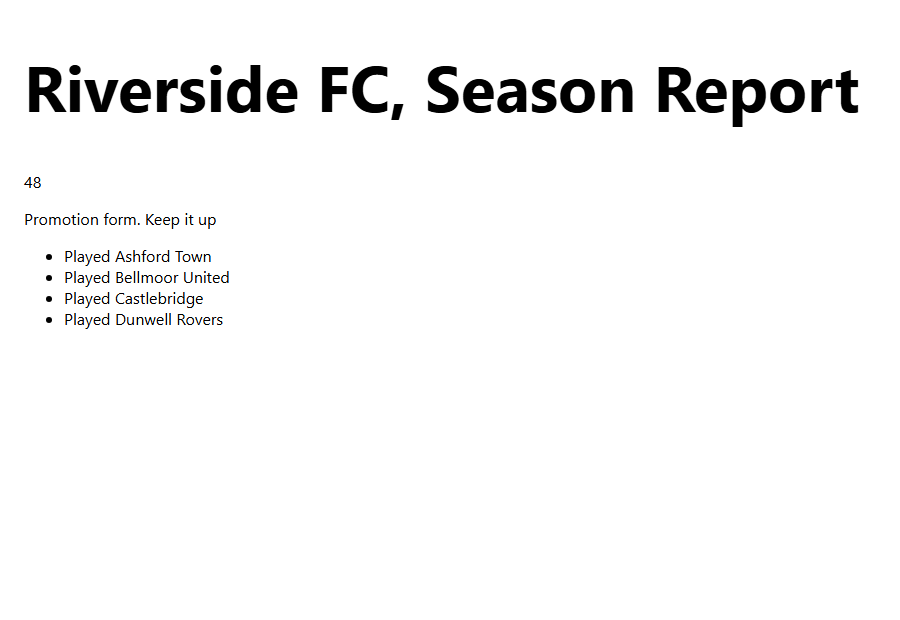
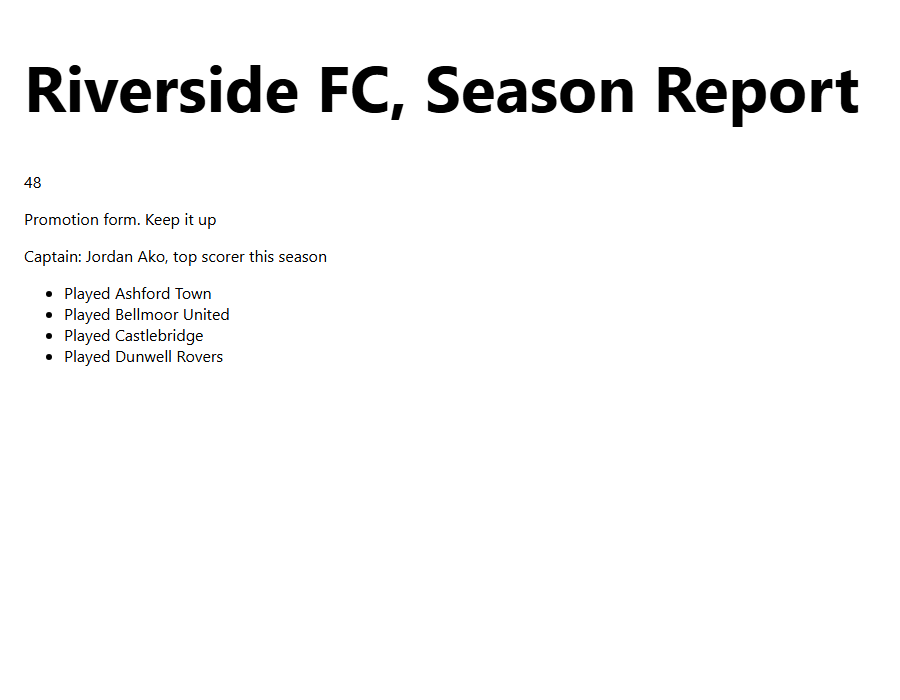
Add plain-English text variables (equal-to comparisons, quoted or bare)

Changed region(s): [[0.0311, 0.0919, 0.9644, 0.2145], [0.0311, 0.2452, 0.2489, 0.521], [0.28, 0.3371, 0.3422, 0.3984]]

diff --git a/src/web-macros.ts b/src/web-macros.ts
@@ -8,9 +8,14 @@ export type MacroExpandResult =
   | { ok: true; source: string }
   | { ok: false; diagnostics: VisualDiagnostic[] };
 
+/** A variable holds either a number (with arithmetic) or plain text (copied or compared, but
+ * not computed). Both kinds are written the same way: "The <name> is <value>." */
+type VarValue = { type: "number"; value: number } | { type: "text"; value: string };
+
 const NUMBER_OR_NAME = "(?:the\\s+)?(-?\\d+(?:\\.\\d+)?|[a-z][a-z ]*?)";
 const ASSIGN_RE = /^the\s+([a-z][a-z ]*?)\s+is\s+(.+?)\.?$/i;
 const EXPR_RE = new RegExp(`^${NUMBER_OR_NAME}(?:\\s+(plus|minus|times|divided by)\\s+${NUMBER_OR_NAME})?$`, "i");
+const NUMERIC_INTENT_RE = /\d|\b(?:plus|minus|times|divided by)\b/i;
 const IF_RE = /^if\s+the\s+([a-z][a-z ]*?)\s+is\s+(greater than|less than|equal to|at least|at most)\s+(?:the\s+)?(-?\d+(?:\.\d+)?|[a-z][a-z ]*?)\s*,\s*(.+?)\.?$/i;
 const OTHERWISE_RE = /^otherwise\s*,\s*(.+?)\.?$/i;
 // The list group is greedy so it claims everything up to the LAST comma (the one that
@@ -28,19 +33,37 @@ function formatNumber(value: number): string {
   return Number.isInteger(rounded) ? String(rounded) : String(rounded);
 }
 
-function resolveOperand(raw: string, variables: Map<string, number>): number | undefined {
-  const token = raw.trim().toLowerCase();
-  if (/^-?\d+(?:\.\d+)?$/.test(token)) return Number(token);
-  return variables.get(token);
+function stripLeadingThe(text: string): string {
+  return text.trim().replace(/^the\s+/i, "");
 }
 
-function evaluateExpression(expr: string, variables: Map<string, number>): number | undefined {
+function dequote(text: string): string {
+  return /^"([\s\S]*)"$/.exec(text.trim())?.[1] ?? text.trim();
+}
+
+function resolveNumericOperand(raw: string, variables: Map<string, VarValue>): number | undefined {
+  const token = raw.trim().toLowerCase();
+  if (/^-?\d+(?:\.\d+)?$/.test(token)) return Number(token);
+  const found = variables.get(token);
+  return found?.type === "number" ? found.value : undefined;
+}
+
+/** Text a comparison target resolves to: a known variable's value (of either kind, stringified),
+ * or, failing that, the raw words themselves. Unlike numbers, plain text never needs to be
+ * "defined first": "If the winner is equal to Alex" is valid even without an "Alex" variable. */
+function resolveTextOperand(raw: string, variables: Map<string, VarValue>): string {
+  const found = variables.get(stripLeadingThe(raw).toLowerCase());
+  if (found) return found.type === "number" ? formatNumber(found.value) : found.value;
+  return dequote(raw);
+}
+
+function evaluateExpression(expr: string, variables: Map<string, VarValue>): number | undefined {
   const match = EXPR_RE.exec(expr.trim());
   if (!match) return undefined;
-  const left = resolveOperand(match[1]!, variables);
+  const left = resolveNumericOperand(match[1]!, variables);
   if (left === undefined) return undefined;
   if (!match[2]) return left;
-  const right = resolveOperand(match[3]!, variables);
+  const right = resolveNumericOperand(match[3]!, variables);
   if (right === undefined) return undefined;
   switch (match[2].toLowerCase()) {
     case "plus": return left + right;
@@ -51,7 +74,7 @@ function evaluateExpression(expr: string, variables: Map<string, number>): numbe
   }
 }
 
-function compare(value: number, comparator: string, target: number): boolean {
+function compareNumbers(value: number, comparator: string, target: number): boolean {
   switch (comparator.toLowerCase()) {
     case "greater than": return value > target;
     case "less than": return value < target;
@@ -68,7 +91,7 @@ function substituteWord(text: string, word: string, replacement: string): string
 }
 
 /** Closest known variable name to an unresolved reference, for a "did you mean" suggestion. */
-function closestVariable(name: string, variables: Map<string, number>): string | undefined {
+function closestVariable(name: string, variables: Map<string, VarValue>): string | undefined {
   const key = name.trim().toLowerCase();
   for (const known of variables.keys()) if (oneEditAway(known, key)) return known;
   return undefined;
@@ -167,7 +190,7 @@ export function usesMacroGrammar(source: string): boolean {
  */
 export function expandMacros(source: string): MacroExpandResult {
   const lines = source.split(/\r?\n/);
-  const variables = new Map<string, number>();
+  const variables = new Map<string, VarValue>();
   const output: string[] = [];
   const diagnostics: VisualDiagnostic[] = [];
   let lastCondition: boolean | undefined;
@@ -186,10 +209,20 @@ export function expandMacros(source: string): MacroExpandResult {
 
     const assign = ASSIGN_RE.exec(trimmed);
     if (assign) {
-      const value = evaluateExpression(assign[2]!, variables);
-      if (value !== undefined) {
-        variables.set(assign[1]!.trim().toLowerCase(), value);
+      const name = assign[1]!.trim().toLowerCase();
+      const rawValue = assign[2]!.trim();
+      const numericValue = evaluateExpression(rawValue, variables);
+      if (numericValue !== undefined) {
+        variables.set(name, { type: "number", value: numericValue });
         return; // a variable sentence does not render anything by itself
+      }
+      // Only fall back to plain text when the value doesn't even look like an arithmetic
+      // attempt (no digits, no "plus"/"minus"/"times"/"divided by"). That keeps a genuine
+      // arithmetic mistake, such as dividing by zero, from silently becoming literal text.
+      if (!NUMERIC_INTENT_RE.test(rawValue)) {
+        const copied = variables.get(stripLeadingThe(rawValue).toLowerCase());
+        variables.set(name, copied ?? { type: "text", value: dequote(rawValue) });
+        return;
       }
       // Doesn't resolve to a known number or variable expression: leave it for the
       // page compiler to report as an ordinary unrecognized instruction.
@@ -200,15 +233,28 @@ export function expandMacros(source: string): MacroExpandResult {
     const ifMatch = IF_RE.exec(trimmed);
     if (ifMatch) {
       const name = ifMatch[1]!.trim().toLowerCase();
-      const value = variables.get(name);
-      if (value === undefined) {
+      const subject = variables.get(name);
+      if (subject === undefined) {
         const closest = closestVariable(ifMatch[1]!, variables);
         report(lineNumber, trimmed, "M001", `"${ifMatch[1]!.trim()}" was never given a value.`,
           closest ? `Did you mean "${closest}"?` : `Add a sentence like "The ${ifMatch[1]!.trim()} is 0." before this line.`,
           closest ? [{ label: `Use "${closest}"`, replacement: rawLine.replace(ifMatch[1]!, closest) }] : undefined);
         return;
       }
-      const target = resolveOperand(ifMatch[3]!, variables);
+      const comparator = ifMatch[2]!.trim().toLowerCase();
+      if (subject.type === "text") {
+        if (comparator !== "equal to") {
+          report(lineNumber, trimmed, "M006", `Text can only be compared with "is equal to", not "is ${comparator}".`,
+            `Try "If the ${ifMatch[1]!.trim()} is equal to ...".`,
+            [{ label: `Change "${comparator}" to "equal to"`, replacement: rawLine.replace(ifMatch[2]!, "equal to") }]);
+          return;
+        }
+        const target = resolveTextOperand(ifMatch[3]!, variables);
+        lastCondition = subject.value.trim().toLowerCase() === target.trim().toLowerCase();
+        if (lastCondition) output.push(ifMatch[4]!);
+        return;
+      }
+      const target = resolveNumericOperand(ifMatch[3]!, variables);
       if (target === undefined) {
         const closest = closestVariable(ifMatch[3]!, variables);
         report(lineNumber, trimmed, "M002", `"${ifMatch[3]!.trim()}" is not a number or a known variable.`,
@@ -216,7 +262,7 @@ export function expandMacros(source: string): MacroExpandResult {
           closest ? [{ label: `Use "${closest}"`, replacement: rawLine.replace(ifMatch[3]!, closest) }] : undefined);
         return;
       }
-      lastCondition = compare(value, ifMatch[2]!, target);
+      lastCondition = compareNumbers(subject.value, comparator, target);
       if (lastCondition) output.push(ifMatch[4]!);
       return;
     }
@@ -261,8 +307,9 @@ export function expandMacros(source: string): MacroExpandResult {
     const trailing = /^(.*\bto\s+)([a-z][a-z ]*)$/i.exec(line.trimEnd());
     if (!trailing) return line;
     const name = trailing[2]!.trim().toLowerCase();
-    if (!variables.has(name)) return line;
-    return `${trailing[1]}${formatNumber(variables.get(name)!)}`;
+    const found = variables.get(name);
+    if (!found) return line;
+    return `${trailing[1]}${found.type === "number" ? formatNumber(found.value) : found.value}`;
   });
 
   return { ok: true, source: finalLines.join("\n") };

diff --git a/test/macros.test.ts b/test/macros.test.ts
@@ -229,3 +229,43 @@ test("For each with an empty list is a clear error", () => {
   invalid(`Add a bullet list called colors inside page
 For each color in , add a list item called swatch inside colors`, /needs at least one item/);
 });
+
+test("a variable can hold plain text and be substituted into a Set instruction", () => {
+  const { ir } = page(`Add a paragraph called name display inside page
+The winner is Alex Carter.
+Set the text of name display to winner`);
+  assert.equal(textOf(ir, "name display"), "Alex Carter");
+});
+
+test("a text variable can be quoted, and can alias another text variable", () => {
+  const { ir } = page(`Add a paragraph called quote display inside page
+Add a paragraph called copy display inside page
+The motto is "Play as a team".
+The copy is the motto.
+Set the text of quote display to motto
+Set the text of copy display to copy`);
+  assert.equal(textOf(ir, "quote display"), "Play as a team");
+  assert.equal(textOf(ir, "copy display"), "Play as a team");
+});
+
+test("an If sentence can compare a text variable with is equal to", () => {
+  const { ir } = page(`Add a paragraph called message inside page
+The winner is Alex Carter.
+If the winner is equal to Alex Carter, set the text of message to champion
+Otherwise, set the text of message to runner up`);
+  assert.equal(textOf(ir, "message"), "champion");
+});
+
+test("text equality comparison is case-insensitive", () => {
+  const { ir } = page(`Add a paragraph called message inside page
+The winner is Alex Carter.
+If the winner is equal to alex carter, set the text of message to champion
+Otherwise, set the text of message to runner up`);
+  assert.equal(textOf(ir, "message"), "champion");
+});
+
+test("comparing a text variable with a numeric comparator is a clear error", () => {
+  invalid(`Add a paragraph called message inside page
+The winner is Alex Carter.
+If the winner is greater than Alex Carter, set the text of message to champion`, /can only be compared with/);
+});

diff --git a/examples/season-scoreboard.html b/examples/season-scoreboard.html
@@ -4,4 +4,4 @@
 <title>IntentLang page</title><style>*{box-sizing:border-box}body{margin:24px;font-family:system-ui,sans-serif;overflow-wrap:anywhere}
 img,video{max-width:100%;height:auto}input,select,textarea,button{font:inherit;max-width:100%}
 #element-2{font-size:64px;font-weight:700}
-@media(prefers-reduced-motion:reduce){*,*::before,*::after{animation:none!important;transition:none!important;scroll-behavior:auto!important}}</style></head><body id="page"><section id="element-1"><h1 id="element-2">Riverside FC, Season Report</h1><p id="element-3">48</p><p id="element-4">Promotion form. Keep it up</p><ul id="element-5"><li id="element-6">Played Ashford Town</li><li id="element-7">Played Bellmoor United</li><li id="element-8">Played Castlebridge</li><li id="element-9">Played Dunwell Rovers</li></ul></section></body></html>
+@media(prefers-reduced-motion:reduce){*,*::before,*::after{animation:none!important;transition:none!important;scroll-behavior:auto!important}}</style></head><body id="page"><section id="element-1"><h1 id="element-2">Riverside FC, Season Report</h1><p id="element-3">48</p><p id="element-4">Promotion form. Keep it up</p><p id="element-5">Captain: Jordan Ako, top scorer this season</p><ul id="element-6"><li id="element-7">Played Ashford Town</li><li id="element-8">Played Bellmoor United</li><li id="element-9">Played Castlebridge</li><li id="element-10">Played Dunwell Rovers</li></ul></section></body></html>

diff --git a/test/gallery.browser.ts b/test/gallery.browser.ts
@@ -27,6 +27,7 @@ test("published gallery HTML matches its English source and opens without a serv
     assert.equal(await page.getByText("48", { exact: true }).isVisible(), true);
     assert.equal(await page.getByText("Promotion form. Keep it up", { exact: true }).isVisible(), true);
     assert.equal(await page.getByText("Played Dunwell Rovers", { exact: true }).isVisible(), true);
+    assert.equal(await page.getByText("Captain: Jordan Ako, top scorer this season", { exact: true }).isVisible(), true);
     await page.goto(pathToFileURL(resolve("examples/matchday.html")).href);
     for (const viewport of [
       { width: 1440, height: 1100 }, { width: 768, height: 1024 }, { width: 390, height: 844 }

diff --git a/docs/visual-language.md b/docs/visual-language.md
@@ -192,26 +192,32 @@ Otherwise, set the text of form line to Steady form.
 For each opponent in Ashford Town, Bellmoor United and Castlebridge, add a list item called result opponent inside fixtures
 ```
 
-- **`The <name> is <value>.`** defines or recomputes a number. The value can be a
-  plain number, an existing variable, or one arithmetic step: `plus`, `minus`,
+- **`The <name> is <value>.`** defines or recomputes a variable. The value can be
+  a plain number, an existing variable, or one arithmetic step: `plus`, `minus`,
   `times`, or `divided by` another number or variable. Each sentence performs at
   most one operation; chain several sentences for anything larger, the same way
   the rest of the language favors clear, repeated instructions over dense syntax.
+  A value can also be plain text, either bare words (`The winner is Alex
+  Carter.`) or a quoted phrase (`The motto is "Play as a team".`) — quotes are
+  only needed if the text itself could be confused with a number or another
+  variable's name.
 - **`If the <name> is <comparison> <value>, <one instruction>.`** keeps that one
   instruction only when the comparison is true. Comparisons are written as words:
-  `greater than`, `less than`, `equal to`, `at least`, `at most`.
+  `greater than`, `less than`, `equal to`, `at least`, `at most`. Text variables
+  can only be compared with `equal to` (the others don't make sense for text);
+  using another comparator on text is reported as a clear error.
 - **`Otherwise, <one instruction>.`** runs when the If sentence right before it was
   false.
 - **`For each <name> in <item, item and item>, <one instruction>.`** repeats that
   one instruction once per item, replacing the loop word wherever it appears.
 
-A variable's value can be used anywhere a plain instruction ends with
-`to <name>`, such as `Set the text of points line to total points`.
+A variable's value, number or text, can be used anywhere a plain instruction ends
+with `to <name>`, such as `Set the text of points line to total points`.
 
 Like the rest of the language, none of this is case sensitive: keywords
-(`the`, `is`, `if`, `otherwise`, `for each`, `in`), comparators, and variable
-names all match regardless of capitalization, so `THE SCORE IS 5` and
-`the score is 5` behave identically.
+(`the`, `is`, `if`, `otherwise`, `for each`, `in`), comparators, variable names,
+and text comparisons all match regardless of capitalization, so
+`THE SCORE IS 5` and `the score is 5` behave identically.
 
 If a line is close to one of these sentence shapes but has a spelling mistake
 (a misspelled keyword, connector word, or comparator, or a variable name that is
@@ -224,7 +230,8 @@ offered, never applied silently.
 - One instruction per If, Otherwise, or For each sentence. To do several things,
   write the same condition or loop again on the next line.
 - No nested If inside If, or For each inside For each, yet.
-- Text values can't be stored in a variable yet, only numbers.
+- Text variables can only be compared with `equal to`; there's no ordering
+  (`greater than`, etc.) for text, and text can't be used in arithmetic.
 - This is compile-time only. A page can react to what a variable's value was when
   you compiled it, not to anything a visitor does afterward; there is still no
   generated JavaScript. Runtime interactivity (state that changes after a click)
